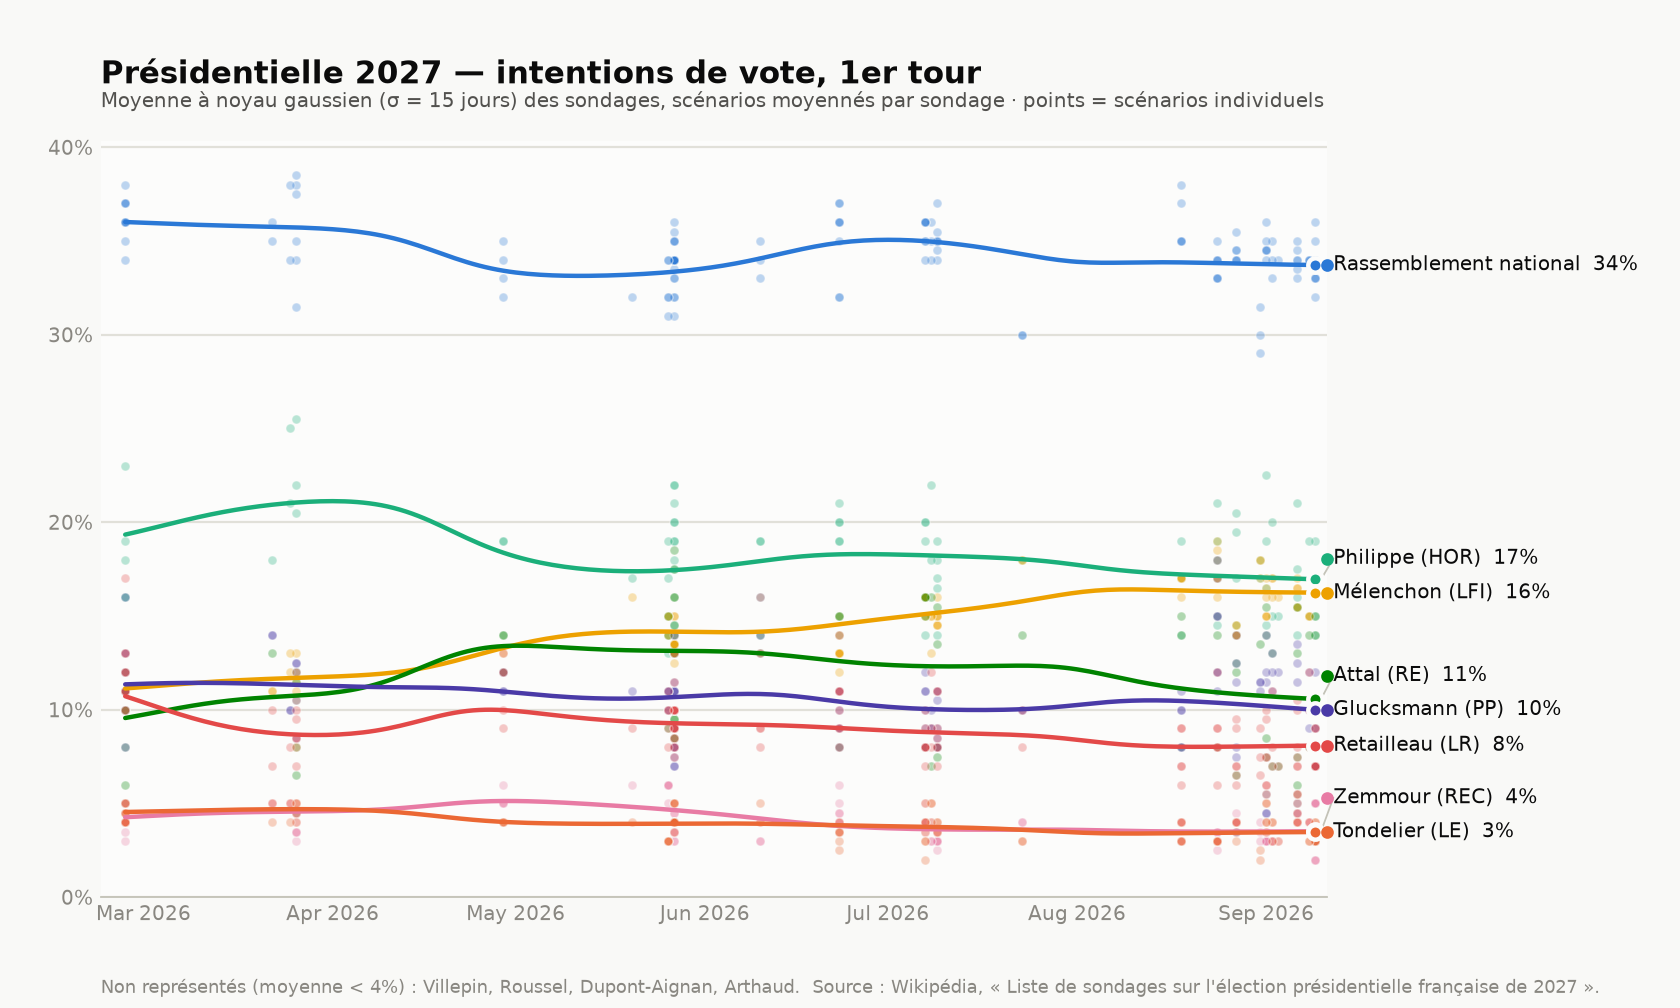
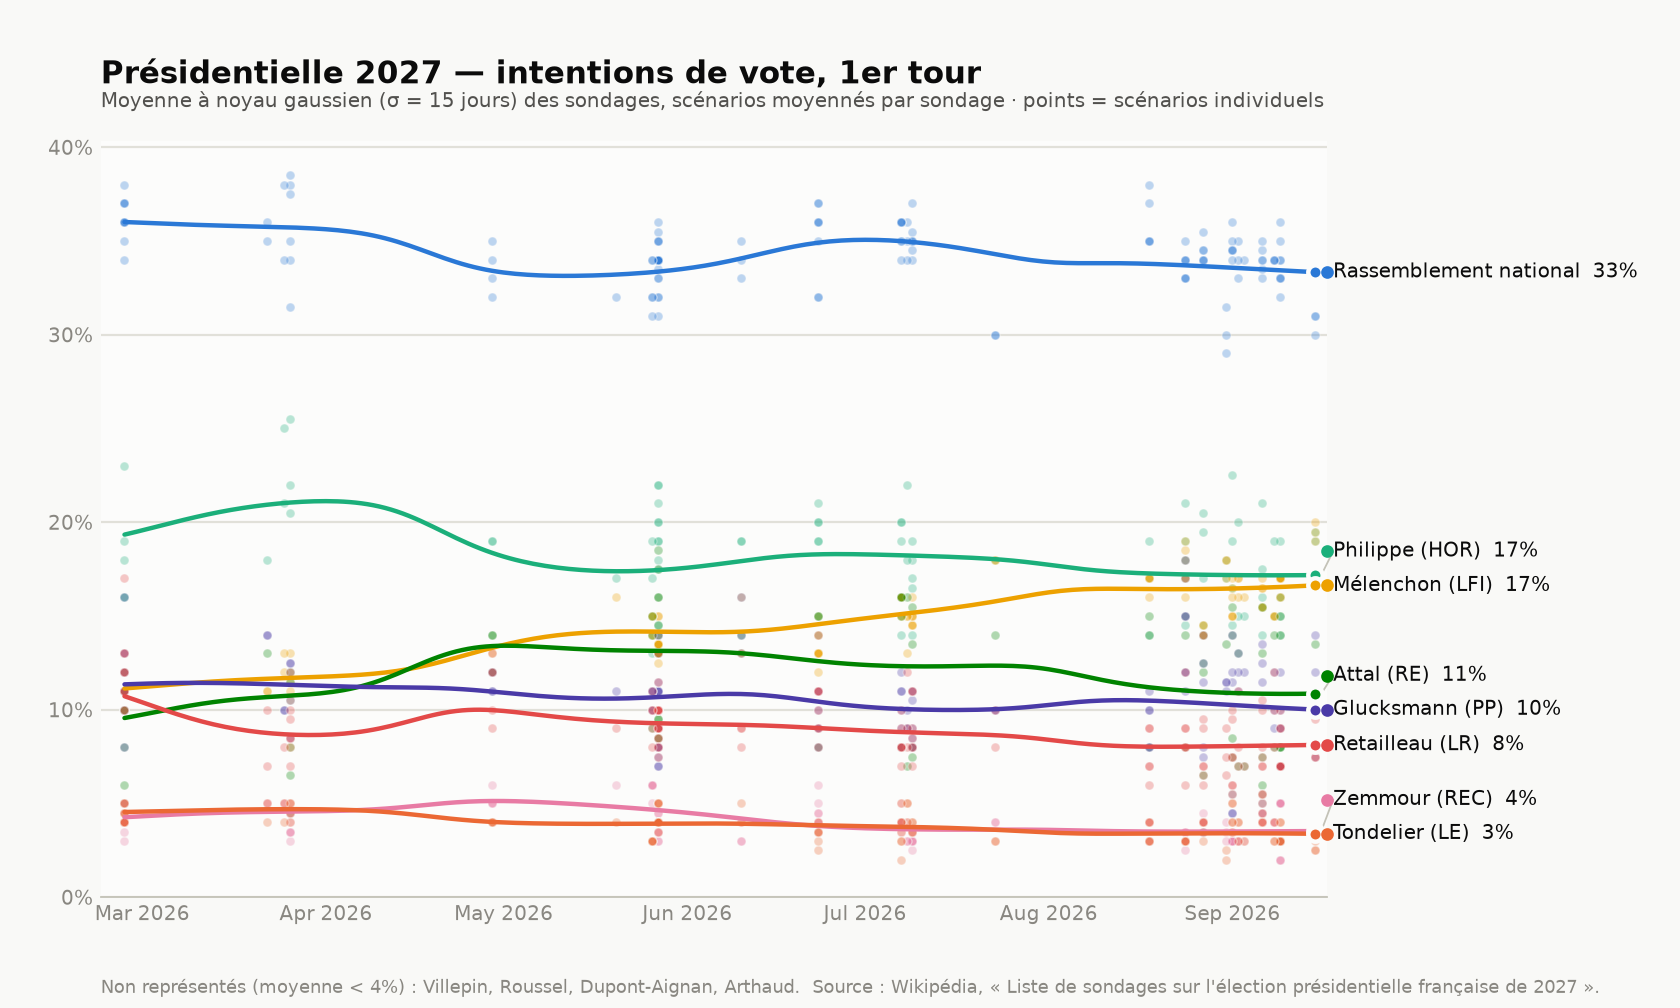
Add Cluster17 15-16 September 2026 poll (first round)
New first-round poll (n=1943, 3 scenarios) added to the dataset; no
second-round match-ups changed in this pull. Regenerated first-round
charts and refreshed README's latest-poll summary and pulled-on date.

diff --git a/README.md b/README.md
@@ -61,7 +61,7 @@ python3 parse_polls.py /tmp/frelec_raw.wiki polls_2027_second_round.csv --second
 First-round voting-intention polls, January–September 2026, scraped from the French
 Wikipedia article
 ["Liste de sondages sur l'élection présidentielle française de 2027"](https://fr.wikipedia.org/wiki/Liste_de_sondages_sur_l%27%C3%A9lection_pr%C3%A9sidentielle_fran%C3%A7aise_de_2027)
-(pulled 2026-09-16).
+(pulled 2026-09-25).
 
 Starting with the 7–8 July 2026 polls (Wikipedia's "Second semestre 2026"
 sub-table), the table switched the RN column from a hypothetical "candidate"
@@ -89,9 +89,9 @@ Lecornu, etc.). A share Wikipedia reports only as an upper bound (e.g. `<1`)
 is encoded as the midpoint of that bound (`0.5`), with the original reading
 kept in `notes`.
 
-Latest poll: OpinionWay (n=1001, 9–10 September) — RN (Le Pen) 32–34%,
-Mélenchon 16–17%, Philippe 15–16%, Glucksmann 3–9%, Attal 7–8%,
-Retailleau 7%.
+Latest poll: Cluster17 (n=1943, 15–16 September) — RN (Le Pen) 30–31%,
+Mélenchon 19–20%, Philippe 19–19.5%, Glucksmann 7.5–14%, Attal 13.5%,
+Retailleau 7.5–9.5%.
 
 Caveat (per Wikipedia, citing Le Monde): polls taken a year-plus before a French
 presidential election have historically been poor predictors — in 2022 LFI
